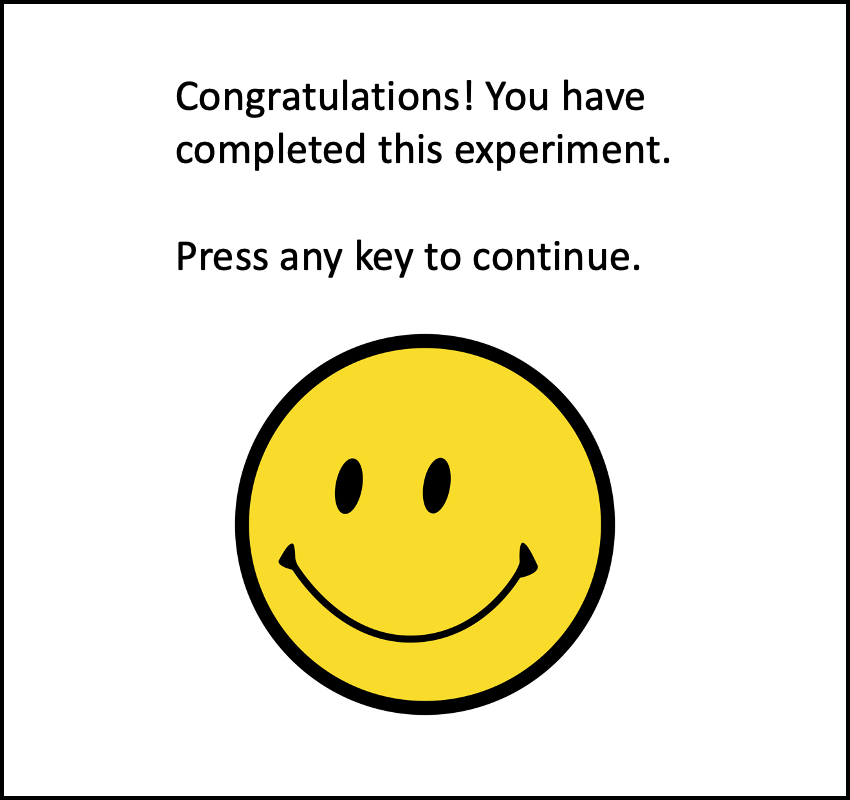
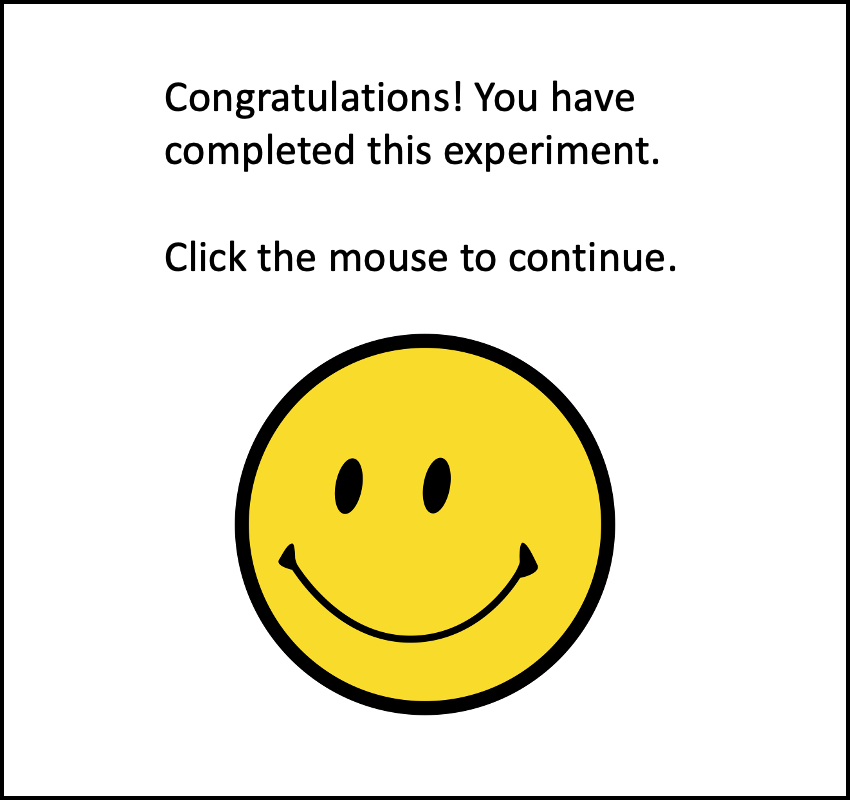
Change waitforkeypress to waitforbuttonpress in protocols so that mouse click is valid. Prompt mouse click instead of button in end figure.

Changed region(s): [[0.1835, 0.0938, 0.7953, 0.2188], [0.1835, 0.2812, 0.7953, 0.3438]]

diff --git a/code/experiment/Protocols/LoudnessMatch.m b/code/experiment/Protocols/LoudnessMatch.m
@@ -244,11 +244,10 @@ function LoudnessMatch(cal_dB, options)
 
     % Show completion screen
     disp_fullscreen(ScreenEnd, hFig);
-    k = waitforkeypress();
-    if k < 0
-        corelib.verb(options.verbose, 'INFO PitchMatch', 'Exiting...')
-        return
-    end
+    % Use instead of waitforkeypress b/c this allows for mouse click. 
+    % When run from RunAllExp, button clicks don't register on this function in particular
+    % this prevents awkwardness having to click the figure then press a button.
+    waitforbuttonpress 
 
     if options.del_fig
         delete(hFig)

diff --git a/code/experiment/Protocols/ThresholdDetermination.m b/code/experiment/Protocols/ThresholdDetermination.m
@@ -230,11 +230,9 @@ function ThresholdDetermination(cal_dB, options)
 
     % Show completion screen 
     disp_fullscreen(ScreenEnd, hFig);
-    k = waitforkeypress();
-    if k < 0
-        corelib.verb(options.verbose, 'INFO PitchMatch', 'Exiting...')
-        return
-    end
+    % See note on LoudnessMatch.m for why not waitforkeypress
+    % Matched here for consistency.
+    waitforbuttonpress
 
     if options.del_fig
         delete(hFig)

diff --git a/code/experiment/Protocols/PitchMatch.m b/code/experiment/Protocols/PitchMatch.m
@@ -437,11 +437,9 @@ function PitchMatch(cal_dB, options)
 
     % Show completion screen
     disp_fullscreen(ScreenEnd, hFig);
-    k = waitforkeypress();
-    if k < 0
-        corelib.verb(options.verbose, 'INFO PitchMatch', 'Exiting...')
-        return
-    end
+    % See note on LoudnessMatch.m for why not waitforkeypress
+    % Matched here for consistency.
+    waitforbuttonpress 
     
     if options.del_fig
         delete(hFig)
